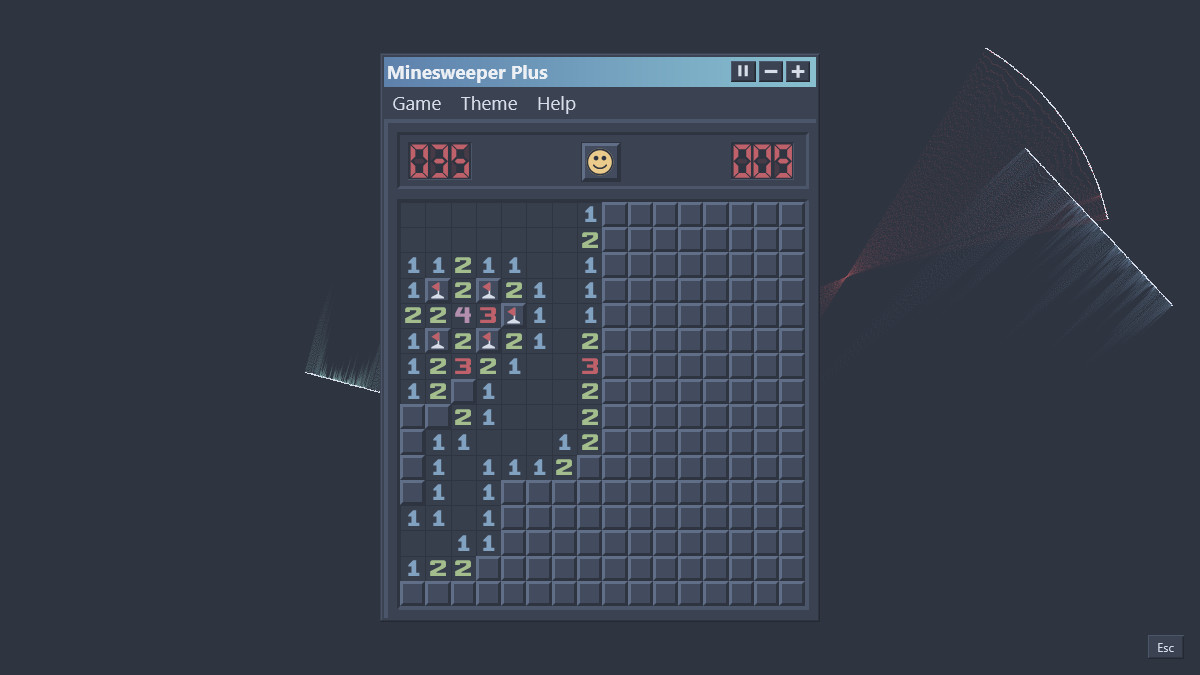
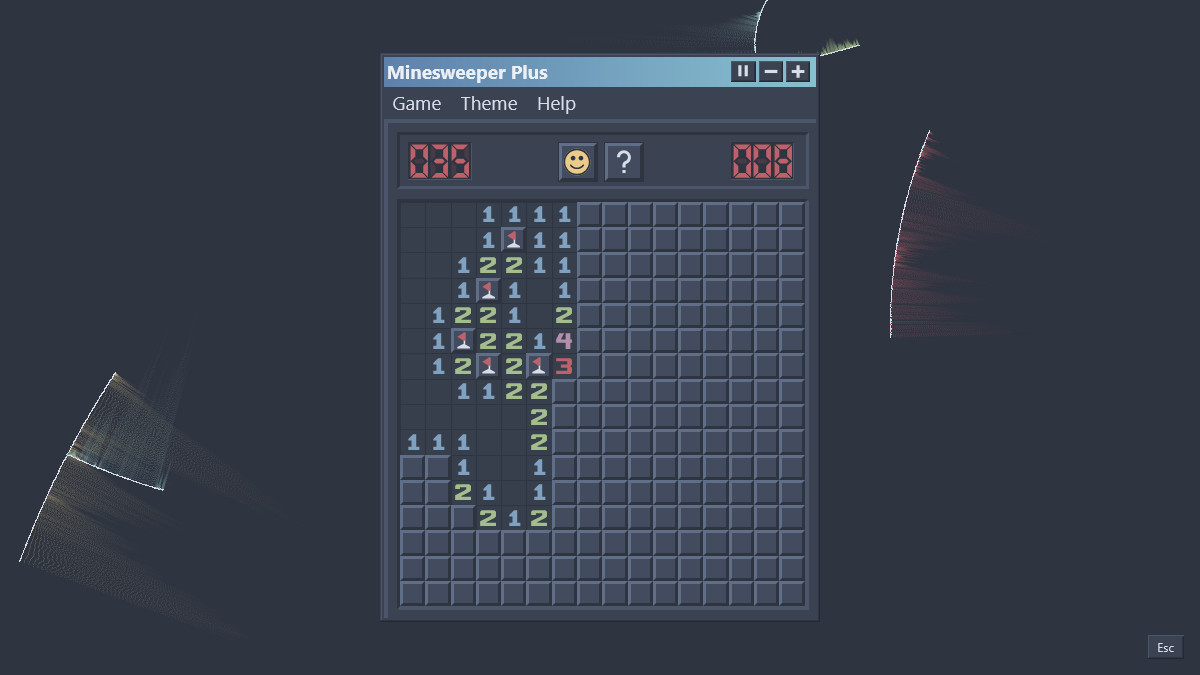
Put a hint button beside Minesweeper's face, except on classic
The small scoreboard button Takuzu uses for undo and hint moves to the
shell and Minesweeper gets a hint button from it. The face and the button
are centred as a pair so narrow boards stay balanced, and classic keeps the
original scoreboard. The theme screenshots are retaken.

diff --git a/src/takuzu/Game.jsx b/src/takuzu/Game.jsx
@@ -4,6 +4,7 @@ import Dialog from '../Dialog'
 import Digit from '../Digit'
 import Play from '../Play'
 import Button from '../Button'
+import SideButton, { HintIcon, UndoIcon } from '../shell/SideButton'
 import WindowControls from '../shell/WindowControls'
 import { watchWindow } from '../shell/zoom'
 import Menu from './Menu'
@@ -11,21 +12,6 @@ import Cell from './Cell'
 import { EMPTY, violations } from './rules'
 
 export const running = ({ start, win, dealing }) => start >= 0 && !win && !dealing
-
-const Side = ({ title, disabled, onClick }, children) => (
-  <button
-    type="button"
-    class={s.side}
-    tabindex={-1}
-    title={title}
-    disabled={disabled}
-    onclick={() => onClick()}
-  >
-    <svg width="19" height="19">
-      {children}
-    </svg>
-  </button>
-)
 
 const Game = ({ key, state, actions }) => {
   const { game, hint } = state
@@ -58,21 +44,21 @@ const Game = ({ key, state, actions }) => {
         <div class={s.scoreboard}>
           <Digit value={game.dealing ? 0 : left} />
           <div class={s.buttons}>
-            <Side
+            <SideButton
               title="Undo (Ctrl+Z)"
               disabled={!game.history.length || game.win || paused}
               onClick={actions.undo}
             >
-              <path d="M8 4L3 8.5 8 13v-3h4.5a2.5 2.5 0 0 1 0 5H9v2h3.5a4.5 4.5 0 0 0 0-9H8z" />
-            </Side>
+              <UndoIcon />
+            </SideButton>
             <Play pressed={false} lose={false} win={game.win} onReset={actions.reset} />
-            <Side
+            <SideButton
               title="Hint (H)"
               disabled={game.dealing || game.win || paused}
               onClick={actions.hint}
             >
-              <path d="M9.5 2a4.5 4.5 0 0 0-4.5 4.5h2a2.5 2.5 0 1 1 3.4 2.3c-1 .4-1.9 1.3-1.9 2.6V13h2v-1.6c0-.4.3-.7.7-.8A4.5 4.5 0 0 0 9.5 2zm-1 12.5v2h2v-2z" />
-            </Side>
+              <HintIcon />
+            </SideButton>
           </div>
           <Digit value={game.time} />
         </div>

diff --git a/src/Game.jsx b/src/Game.jsx
@@ -6,6 +6,7 @@ import Digit from './Digit'
 import Play from './Play'
 import Cell from './Cell'
 import Button from './Button'
+import SideButton, { HintIcon } from './shell/SideButton'
 import WindowControls from './shell/WindowControls'
 import { watchWindow } from './shell/zoom'
 
@@ -19,6 +20,15 @@ const rowsOf = (state) => {
   if (!transposed(state)) return field.map((row, y) => row.map((cell, x) => ({ cell, x, y })))
   return field[0].map((_, x) => field.map((row, y) => ({ cell: row[x], x, y })))
 }
+
+const Face = ({ state, actions }) => (
+  <Play
+    pressed={state.game.pressed}
+    lose={state.game.lose}
+    win={state.game.win}
+    onReset={actions.reset}
+  />
+)
 
 const Game = ({ key, state, actions }) => (
   <Dialog
@@ -44,12 +54,21 @@ const Game = ({ key, state, actions }) => (
     <div class={s.root}>
       <div class={s.scoreboard}>
         <Digit value={state.game.flags} />
-        <Play
-          pressed={state.game.pressed}
-          lose={state.game.lose}
-          win={state.game.win}
-          onReset={actions.reset}
-        />
+        {state.theme === 'classic' ? (
+          <Face state={state} actions={actions} />
+        ) : (
+          //the hint button sits by the face off classic, the pair centred like takuzu's buttons
+          <div class={s.buttons}>
+            <Face state={state} actions={actions} />
+            <SideButton
+              title="Hint (H)"
+              disabled={state.game.win || state.game.lose || state.game.paused}
+              onClick={actions.hint}
+            >
+              <HintIcon />
+            </SideButton>
+          </div>
+        )}
         <Digit value={state.game.time} />
       </div>
       <div class={state.game.lose ? s.fieldLost : s.field}>

diff --git a/src/takuzu/Game.module.css b/src/takuzu/Game.module.css
@@ -21,49 +21,6 @@
   gap: 4px;
 }
 
-/*undo and hint, drawn like the face button between them*/
-.side {
-  position: relative;
-  display: block;
-  margin: 0;
-  padding: 3px 3px 2px 2px;
-  color: var(--glyph);
-  background: var(--cell);
-  border: 1px solid var(--cell-shadow);
-  outline: 0;
-  cursor: pointer;
-}
-
-.side::before {
-  position: absolute;
-  top: 0;
-  right: 0;
-  bottom: 0;
-  left: 0;
-  border: 2px solid;
-  border-color: var(--cell-light) var(--cell-shadow) var(--cell-shadow) var(--cell-light);
-  content: '';
-}
-
-.side:active:not(:disabled) {
-  padding: 4px 1px 1px 4px;
-}
-
-.side:active:not(:disabled)::before {
-  border-width: 1px 0 0 1px;
-  border-color: var(--cell-shadow);
-}
-
-.side:disabled {
-  color: var(--cell-shadow);
-  cursor: default;
-}
-
-.side svg {
-  display: block;
-  fill: currentColor;
-}
-
 .field {
   position: relative;
   display: grid;

diff --git a/src/app.test.jsx b/src/app.test.jsx
@@ -448,3 +448,20 @@ it('esc closes an open menu before it shows the spreadsheet', () => {
   wired.peek()
   expect(current.boss).not.toBe(null)
 })
+
+it('has a hint button by the face on every theme but classic', async () => {
+  const hintButtons = (theme) =>
+    new Promise((resolve) => {
+      const container = document.createElement('div')
+      const testView = () => (
+        <div oncreate={(el) => resolve(el.querySelectorAll('[title="Hint (H)"]').length)}>
+          {view({ ...state, theme }, actions)}
+        </div>
+      )
+      app({ ...state, theme }, actions, testView, container)
+    })
+  expect(await hintButtons('classic')).toBe(0)
+  for (const theme of ['synthwave', 'matrix', 'nord', 'solarized', 'solarized-phosphor']) {
+    expect(await hintButtons(theme)).toBe(1)
+  }
+})

diff --git a/src/shell/SideButton.jsx b/src/shell/SideButton.jsx
@@ -1,0 +1,28 @@
+import { h } from 'hyperapp'
+import s from './SideButton.module.css'
+
+//a small scoreboard button beside the face, drawn like it
+const SideButton = ({ title, disabled, onClick }, children) => (
+  <button
+    type="button"
+    class={s.root}
+    tabindex={-1}
+    title={title}
+    disabled={disabled}
+    onclick={() => onClick()}
+  >
+    <svg width="19" height="19">
+      {children}
+    </svg>
+  </button>
+)
+
+export const HintIcon = () => (
+  <path d="M9.5 2a4.5 4.5 0 0 0-4.5 4.5h2a2.5 2.5 0 1 1 3.4 2.3c-1 .4-1.9 1.3-1.9 2.6V13h2v-1.6c0-.4.3-.7.7-.8A4.5 4.5 0 0 0 9.5 2zm-1 12.5v2h2v-2z" />
+)
+
+export const UndoIcon = () => (
+  <path d="M8 4L3 8.5 8 13v-3h4.5a2.5 2.5 0 0 1 0 5H9v2h3.5a4.5 4.5 0 0 0 0-9H8z" />
+)
+
+export default SideButton

diff --git a/src/shell/SideButton.module.css b/src/shell/SideButton.module.css
@@ -1,0 +1,41 @@
+.root {
+  position: relative;
+  display: block;
+  margin: 0;
+  padding: 3px 3px 2px 2px;
+  color: var(--glyph);
+  background: var(--cell);
+  border: 1px solid var(--cell-shadow);
+  outline: 0;
+  cursor: pointer;
+}
+
+.root::before {
+  position: absolute;
+  top: 0;
+  right: 0;
+  bottom: 0;
+  left: 0;
+  border: 2px solid;
+  border-color: var(--cell-light) var(--cell-shadow) var(--cell-shadow) var(--cell-light);
+  content: '';
+}
+
+.root:active:not(:disabled) {
+  padding: 4px 1px 1px 4px;
+}
+
+.root:active:not(:disabled)::before {
+  border-width: 1px 0 0 1px;
+  border-color: var(--cell-shadow);
+}
+
+.root:disabled {
+  color: var(--cell-shadow);
+  cursor: default;
+}
+
+.root svg {
+  display: block;
+  fill: currentColor;
+}

diff --git a/src/Game.module.css b/src/Game.module.css
@@ -16,6 +16,11 @@
   border-color: var(--shadow) var(--light) var(--light) var(--shadow);
 }
 
+.buttons {
+  display: flex;
+  gap: 4px;
+}
+
 .field {
   position: relative;
   white-space: nowrap;

diff --git a/README.md b/README.md
@@ -58,7 +58,7 @@ On top of the [original game](https://github.com/frenzzy/minesweeper), which has
 - **Extreme level**: 39 × 21 with 169 mines, Expert grown by 30% each way at the same mine density. It has its own best time.
 - **Safe First Click** (on by default): mines are only placed once the first cell is opened, never under it. Flagging or chording first does not start the game.
 - **No Guessing**: the first click opens an empty area and every board can be solved with logic alone. A solver checks each board and redeals until it finds one, within a few milliseconds even on Expert and Extreme.
-- **Hint** (Game menu or `H`): highlights a move that follows with certainty and explains the reasoning under the board. Blue marks the numbers it reasons from, green cells are safe, red cells are mines and amber marks flags that contradict a number. It only uses the visible numbers and your flags, and says so when only a guess is left.
+- **Hint** (Game menu, `H`, or the ? button beside the face on every theme but Classic): highlights a move that follows with certainty and explains the reasoning under the board. Blue marks the numbers it reasons from, green cells are safe, red cells are mines and amber marks flags that contradict a number. It only uses the visible numbers and your flags, and says so when only a guess is left.
 - **Double-click chording**: double-click (or tap) a revealed number whose mines are all flagged to open every unflagged neighbour. If the flags don't match the number, the reason is shown under the board: extra flags are outlined in amber, and the cells where the missing flags belong in dashed violet. Explanations stay until the board changes, so clicking never shifts the board under the pointer.
 - **Pause** (title bar button or `P`): stops the clock and hides the board behind plain tiles until you press play. The game also pauses when the tab is hidden or the window loses focus, and waits for play when you come back.
 - **Boss key** (`Esc` or the button in the bottom right corner): covers the screen with a spreadsheet of fresh made up figures, renames the tab and swaps its icon, and pauses the game. Press it again, or click the 100% in the status bar, to go back.
